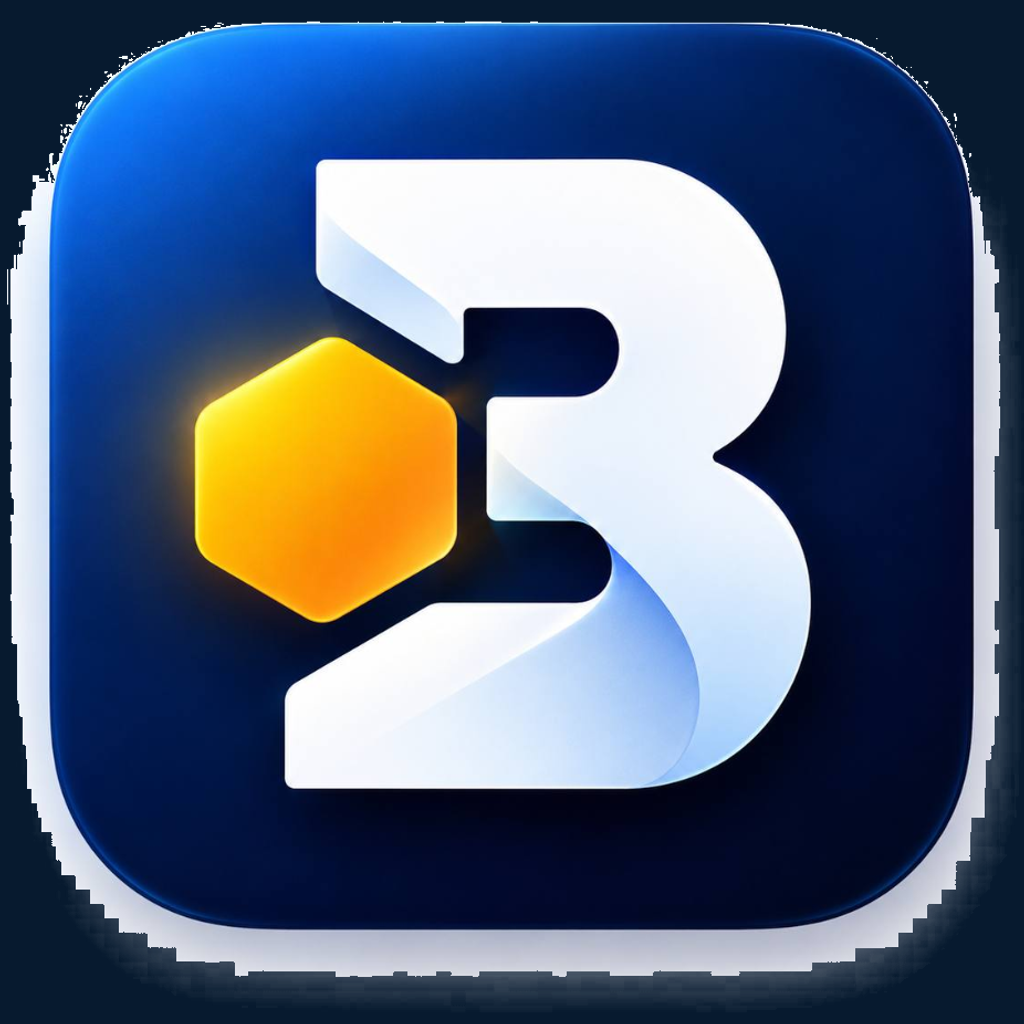
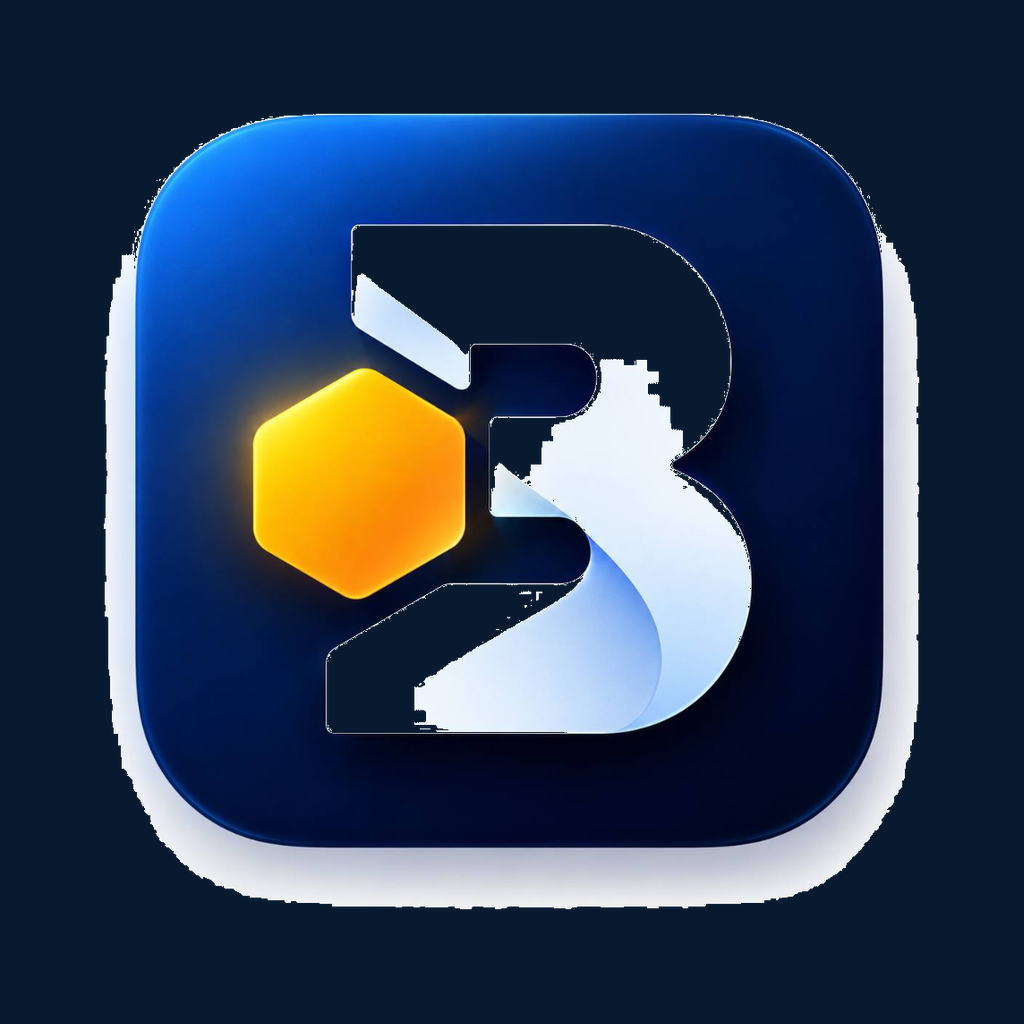
fix(worker-mobile): ship BridgeHive App identity and navy splash
Rename the installed app, regenerate cropped official icon assets without white canvas, and keep a navy boot cover after native splash so launch no longer flashes white.

diff --git a/apps/worker-mobile/components/brand/AppBootCover.tsx b/apps/worker-mobile/components/brand/AppBootCover.tsx
@@ -1,0 +1,65 @@
+import React from 'react';
+import { StyleSheet, Text, View } from 'react-native';
+
+import { BridgeHiveMark } from '@/components/brand/BridgeHiveMark';
+import { useReducedMotion } from '@/hooks/useReducedMotion';
+import { typography } from '@/constants/theme';
+
+/** Native-splash-matching navy used for the post-splash JS boot cover. */
+export const APP_BOOT_NAVY = '#071A2F';
+
+/**
+ * Continuity cover after the native Expo splash closes (fonts / auth loading).
+ * Must stay navy — never flash to a pale or white canvas.
+ */
+export function AppBootCover() {
+  const reducedMotion = useReducedMotion();
+
+  return (
+    <View
+      style={styles.root}
+      accessibilityRole="progressbar"
+      accessibilityLabel="BridgeHive App loading"
+    >
+      {!reducedMotion ? <View pointerEvents="none" style={styles.glowTeal} /> : null}
+      {!reducedMotion ? <View pointerEvents="none" style={styles.glowGold} /> : null}
+      <BridgeHiveMark size={88} style={styles.mark} />
+      <Text style={styles.title}>BridgeHive App</Text>
+    </View>
+  );
+}
+
+const styles = StyleSheet.create({
+  root: {
+    flex: 1,
+    alignItems: 'center',
+    justifyContent: 'center',
+    backgroundColor: APP_BOOT_NAVY,
+    paddingHorizontal: 24,
+  },
+  glowTeal: {
+    position: 'absolute',
+    width: 220,
+    height: 220,
+    borderRadius: 110,
+    backgroundColor: 'rgba(20, 169, 181, 0.16)',
+  },
+  glowGold: {
+    position: 'absolute',
+    width: 140,
+    height: 140,
+    borderRadius: 70,
+    backgroundColor: 'rgba(245, 197, 24, 0.12)',
+    transform: [{ translateY: -12 }],
+  },
+  mark: {
+    marginBottom: 18,
+  },
+  title: {
+    fontFamily: typography.fonts.semibold,
+    fontSize: 20,
+    letterSpacing: -0.2,
+    color: '#F8FBFD',
+    textAlign: 'center',
+  },
+});

diff --git a/apps/worker-mobile/app/_layout.tsx b/apps/worker-mobile/app/_layout.tsx
@@ -17,6 +17,7 @@ import React, { useEffect } from 'react';
 import { GestureHandlerRootView } from 'react-native-gesture-handler';
 import { SafeAreaProvider } from 'react-native-safe-area-context';
 
+import { APP_BOOT_NAVY, AppBootCover } from '@/components/brand/AppBootCover';
 import { colors } from '@/constants/theme';
 import { AuthProvider } from '@/providers/AuthProvider';
 import { UnverifiedRouteGuard } from '@/components/auth/UnverifiedRouteGuard';
@@ -41,11 +42,15 @@ export default function RootLayout() {
   }, [fontsLoaded, fontError]);
 
   if (!fontsLoaded && !fontError) {
-    return <GestureHandlerRootView style={{ flex: 1, backgroundColor: colors.navy }} />;
+    return (
+      <GestureHandlerRootView style={{ flex: 1, backgroundColor: APP_BOOT_NAVY }}>
+        <AppBootCover />
+      </GestureHandlerRootView>
+    );
   }
 
   return (
-    <GestureHandlerRootView style={{ flex: 1 }}>
+    <GestureHandlerRootView style={{ flex: 1, backgroundColor: APP_BOOT_NAVY }}>
       <SafeAreaProvider>
         <AuthProvider>
           <UnverifiedRouteGuard>

diff --git a/apps/worker-mobile/app/index.tsx b/apps/worker-mobile/app/index.tsx
@@ -1,19 +1,14 @@
 import { Redirect } from 'expo-router';
 import React from 'react';
-import { ActivityIndicator, View } from 'react-native';
 
-import { colors } from '@/constants/theme';
+import { AppBootCover } from '@/components/brand/AppBootCover';
 import { useAuth } from '@/providers/AuthProvider';
 
 export default function IndexScreen() {
   const { loading, session, homeRoute } = useAuth();
 
   if (loading) {
-    return (
-      <View style={{ flex: 1, alignItems: 'center', justifyContent: 'center' }}>
-        <ActivityIndicator color={colors.navy} />
-      </View>
-    );
+    return <AppBootCover />;
   }
 
   if (!session) {

diff --git a/apps/worker-mobile/app/profile/app-information.tsx b/apps/worker-mobile/app/profile/app-information.tsx
@@ -26,7 +26,7 @@ export default function AppInformationScreen() {
 
       <View style={styles.card}>
         <Text style={styles.label}>Application</Text>
-        <Text style={styles.value}>Bridge Hive Worker</Text>
+        <Text style={styles.value}>BridgeHive App</Text>
 
         <Text style={styles.label}>Version</Text>
         <Text style={styles.value}>{version}</Text>
